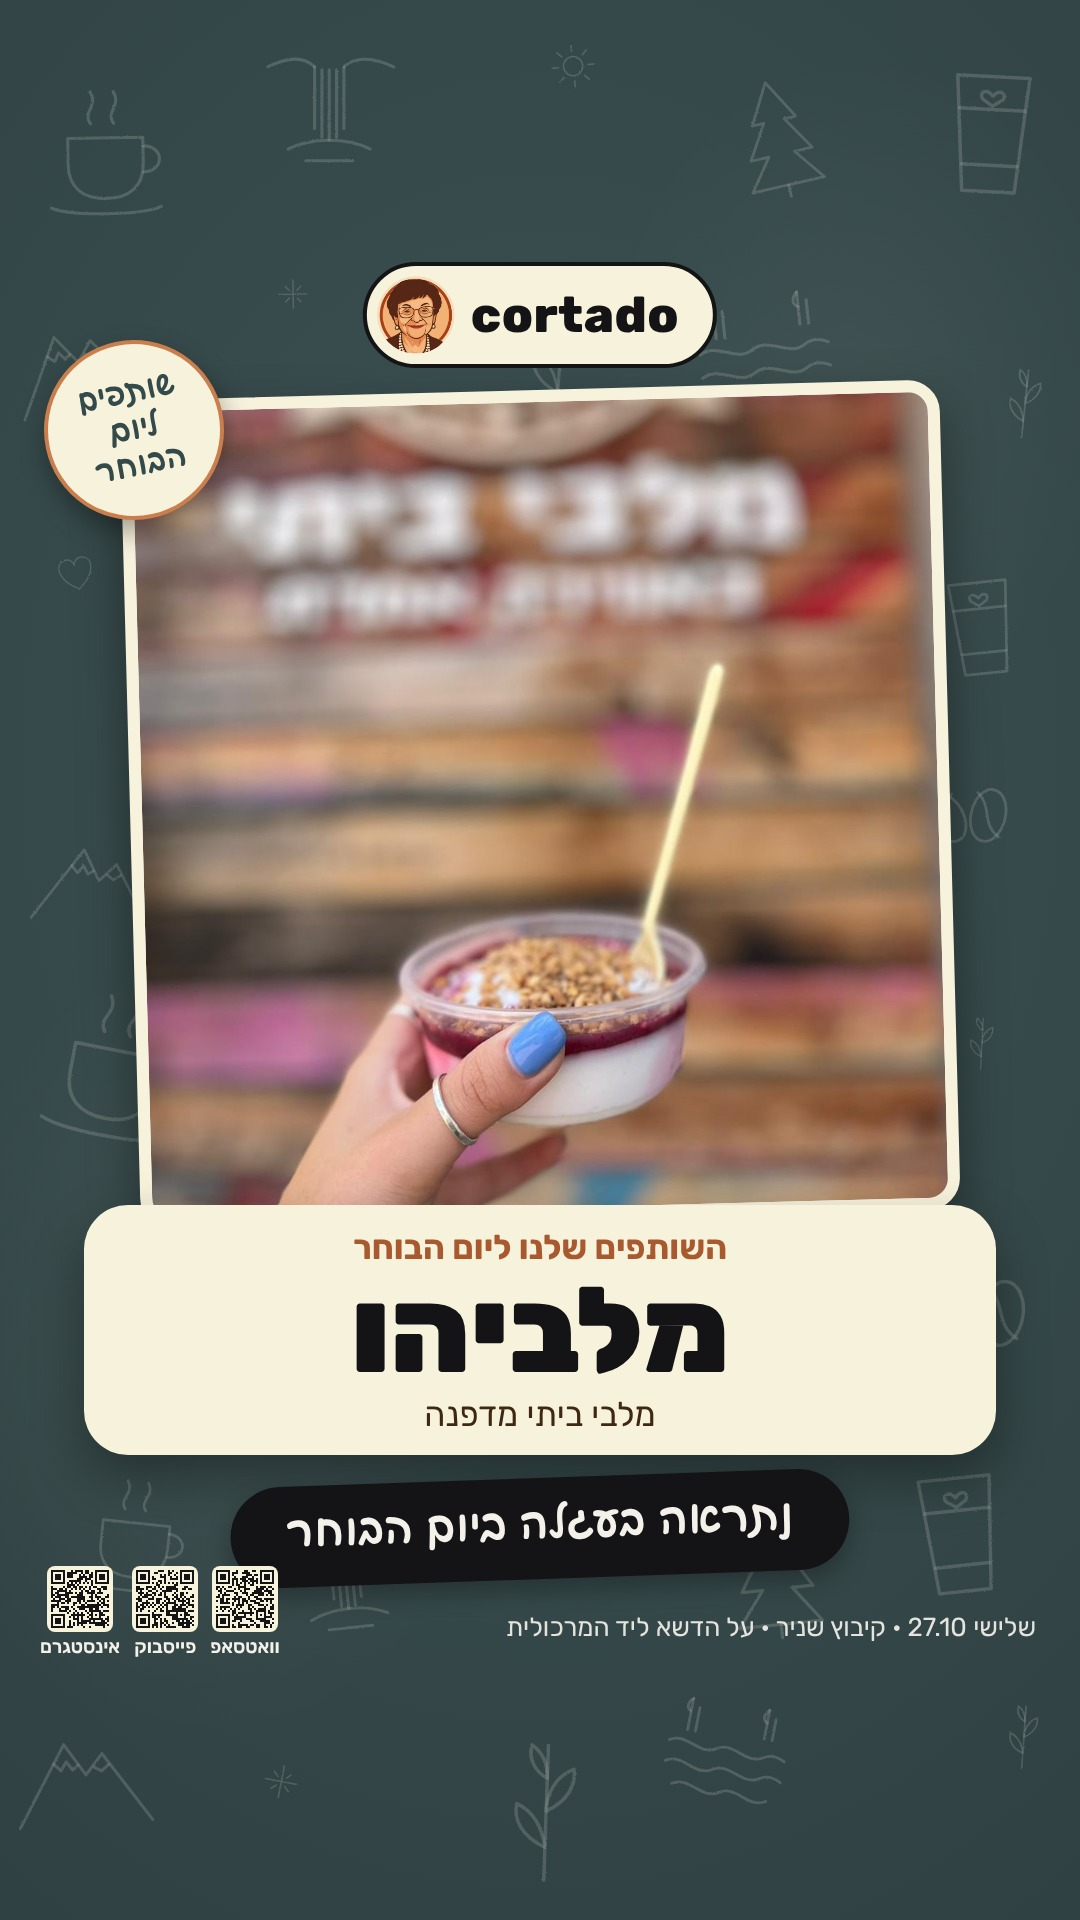
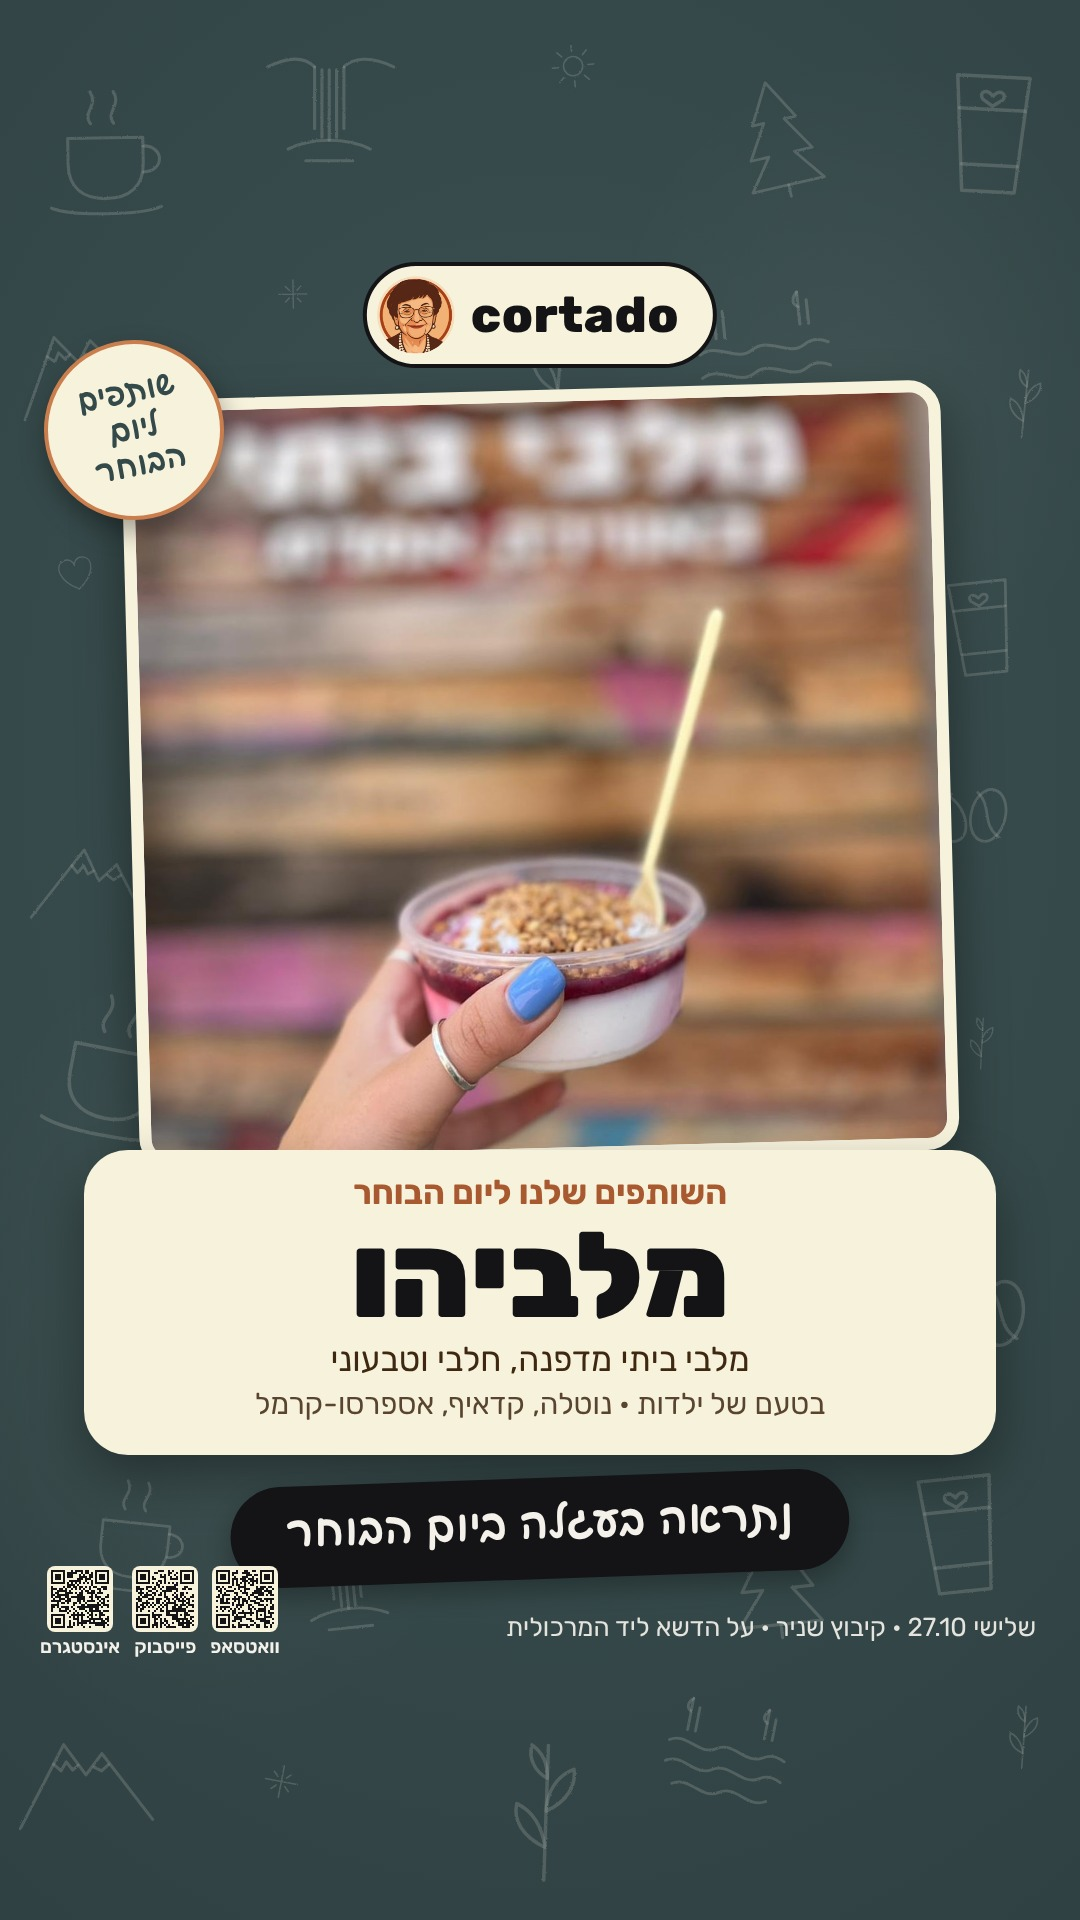
שותפי יום הבוחר: סטורי מלביהו לשבת 24.10 12:00 עם @malabiyahu; תבנית 64 מקבלת שורה שנייה
Claude-Session: https://claude.ai/code/session_017S1eminki3NPNtVbnsj6CV

Changed region(s): [[0.0611, 0.1875, 0.9472, 0.75]]

diff --git a/toolkit/templates/64-partner-story.html b/toolkit/templates/64-partner-story.html
@@ -1,6 +1,6 @@
 <!doctype html><html lang="he" dir="rtl"><head><meta charset="utf-8"><meta name="size" content="1080x1920">
 <link rel="stylesheet" href="base.css"><link rel="stylesheet" href="board.css">
-<!-- Election-day partner story 9:16 (22.10.2026), one per partner. Data: window.HOURS.partner = {name, line, photo, logo?, em?, pos?}.
+<!-- Election-day partner story 9:16 (22.10.2026), one per partner. Data: window.HOURS.partner = {name, line, photo, logo?, em?, pos?, more?}.
      Paths are relative to this file. Everything inside y 250–1670 (app chrome above and below). -->
 <style>
 html,body{height:1920px}
@@ -18,6 +18,11 @@ html,body{height:1920px}
 .card .k{color:#A9592F;font-weight:700;font-size:34px}
 .card .n{font-weight:900;font-size:120px;line-height:1.05;color:var(--cart);white-space:nowrap;overflow:hidden;padding:0 36px}
 .card .l{font-size:34px;color:var(--espresso)}
+.card .m{font-size:30px;color:var(--espresso);opacity:.85;margin-top:6px}
+.card .m[hidden]{display:none}
+.tall .fl{height:770px}
+.tall .logo{top:960px}
+.tall .card{top:1150px;height:305px}
 .card .l.em{font-size:42px;font-weight:800;color:#A9592F}
 .ribbon{top:1478px;font-size:44px}
 .socials{top:1566px;bottom:auto}
@@ -28,7 +33,7 @@ html,body{height:1920px}
 <div class="fl"><img id="photo" alt=""></div>
 <div class="logo" id="logo" hidden><img alt=""></div>
 <div class="sticker"><span>שותפים<br>ליום<br>הבוחר</span></div>
-<div class="card"><div class="k">השותפים שלנו ליום הבוחר</div><div class="n" id="name"></div><div class="l" id="line"></div></div>
+<div class="card"><div class="k">השותפים שלנו ליום הבוחר</div><div class="n" id="name"></div><div class="l" id="line"></div><div class="m" id="more" hidden></div></div>
 <div class="ribbon">נתראה בעגלה ביום הבוחר</div>
 <div class="socials"><div class="s"><span class="q"><img src="../assets/qr-instagram.svg" alt="QR לאינסטגרם"></span><span>אינסטגרם</span></div><div class="s"><span class="q"><img src="../assets/qr-facebook.svg" alt="QR לפייסבוק"></span><span>פייסבוק</span></div><div class="s"><span class="q"><img src="../assets/qr-whatsapp.svg" alt="QR לקבוצת הוואטסאפ"></span><span>וואטסאפ</span></div></div>
 <div class="foot r">שלישי 27.10 · קיבוץ שניר · על הדשא ליד המרכולית</div>
@@ -40,6 +45,7 @@ document.getElementById("name").textContent = p.name || "";
 const n = document.getElementById("name"); // long names shrink to fit the card, measured once the font is in
 document.fonts.ready.then(() => { for (let f = 116; n.scrollWidth > n.clientWidth && f >= 64; f -= 4) n.style.fontSize = f + "px"; });
 document.getElementById("line").textContent = p.line || "";
+if (p.more) { const m = document.getElementById("more"); m.hidden = false; m.textContent = p.more; document.body.classList.add("tall"); } // a second, smaller line
 if (p.em) document.getElementById("line").classList.add("em"); // the one thing the partner asked to stress
 if (p.logo) { const l = document.getElementById("logo"); l.hidden = false; l.querySelector("img").src = p.logo; }
 </script>
